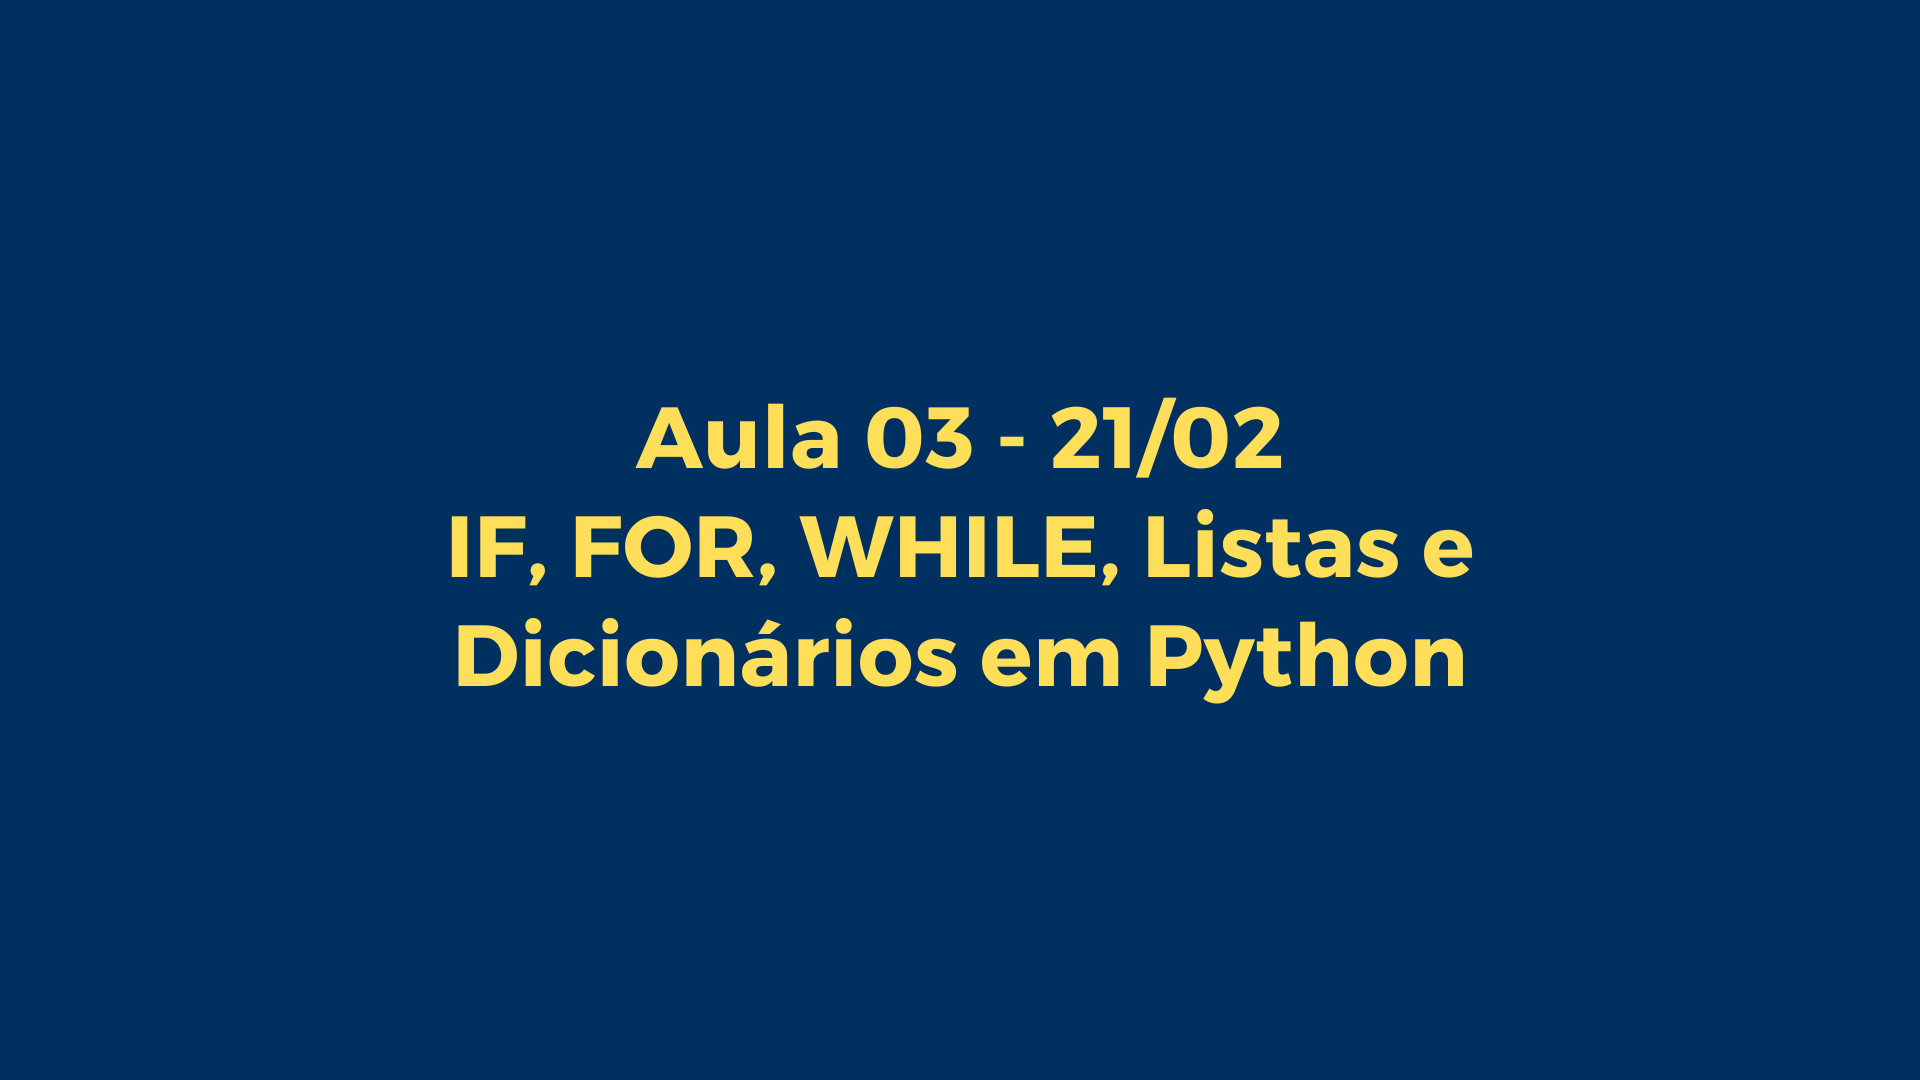
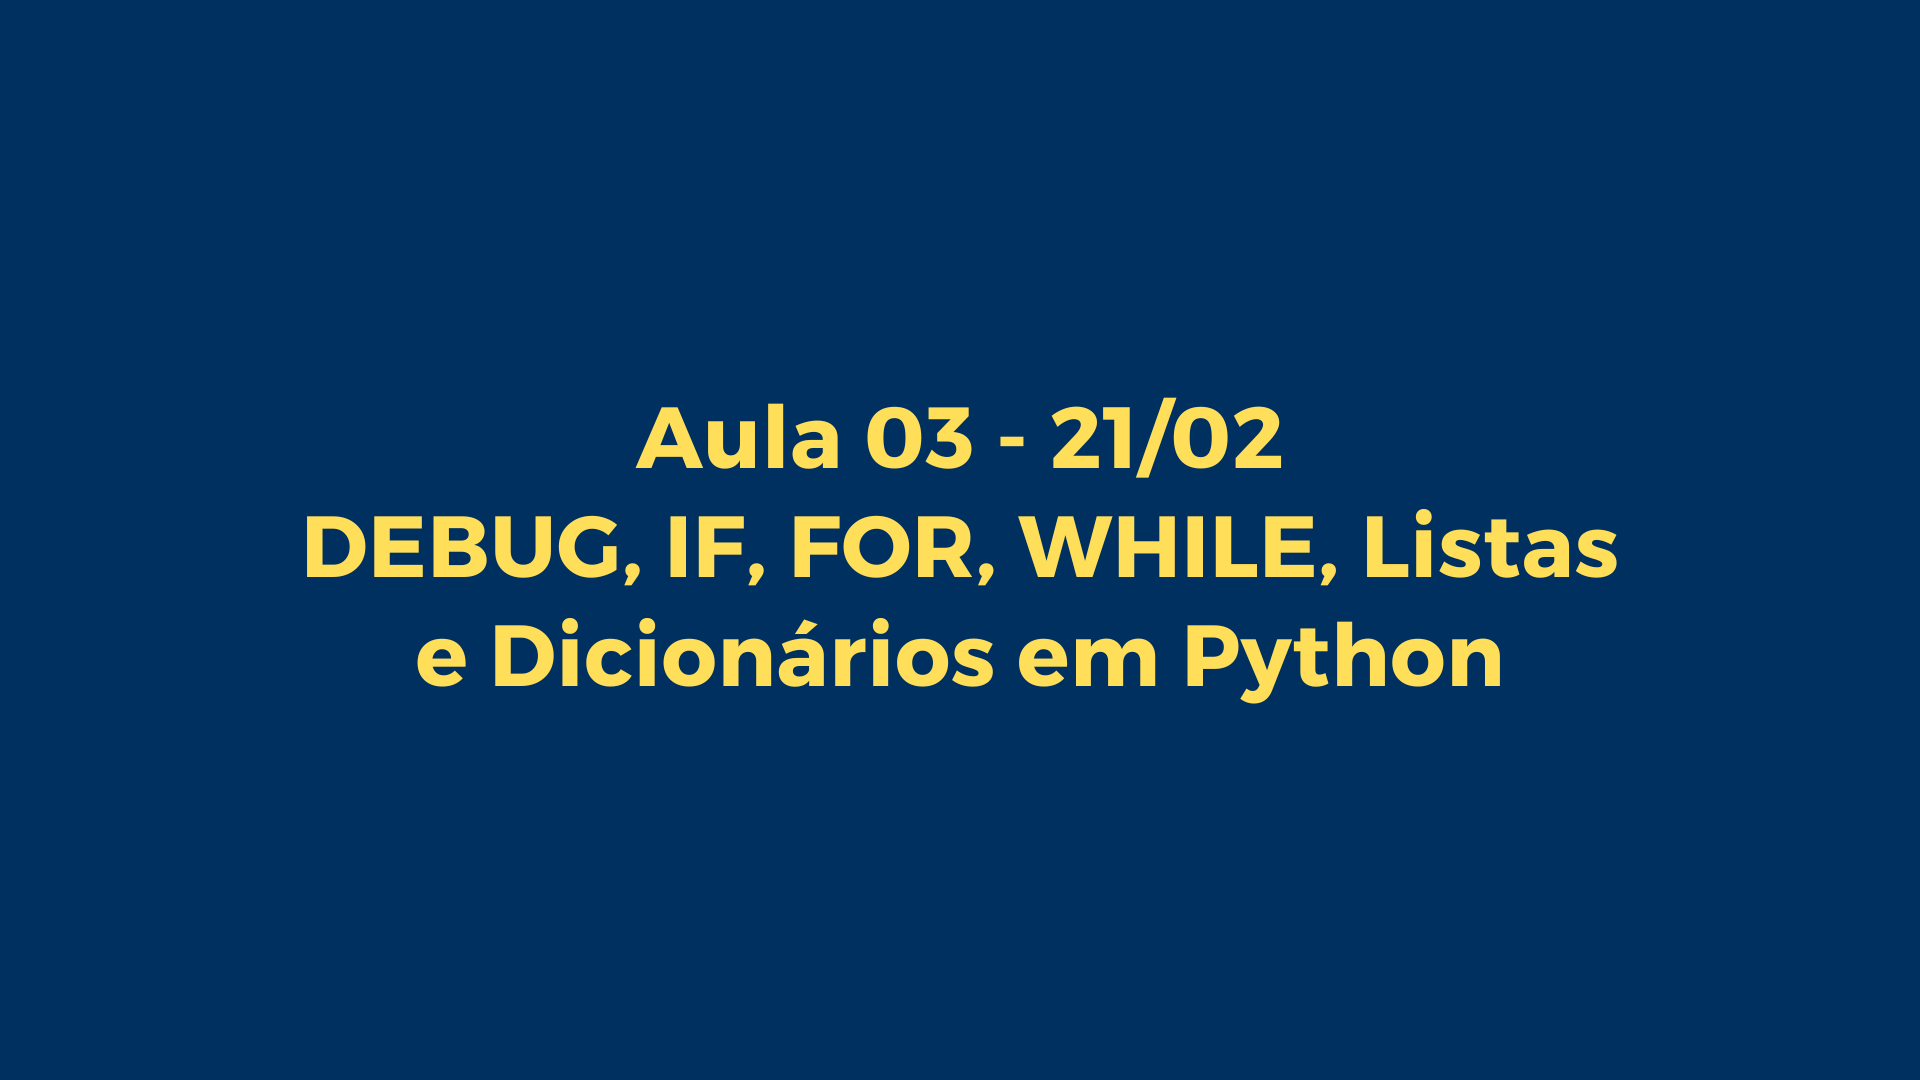
adicionar aula 03

Changed region(s): [[0.1562, 0.4583, 0.8438, 0.6722]]

diff --git a/bootcamp/aula03/README.md b/bootcamp/aula03/README.md
@@ -1,4 +1,4 @@
-# Aula 03: IF, FOR, While, Listas e Dicionários em Python
+# Aula 03: DEBUG, IF, FOR, While, Listas e Dicionários em Python
 
 ![imagem_01](./pics/1.png)
 
@@ -423,4 +423,4 @@ print(frequencia)
 
 ![imagem_03](./pics/3.png)
 
-![imagem_04](./pics/4.png)
+![imagem_0](./pics/4.png)
